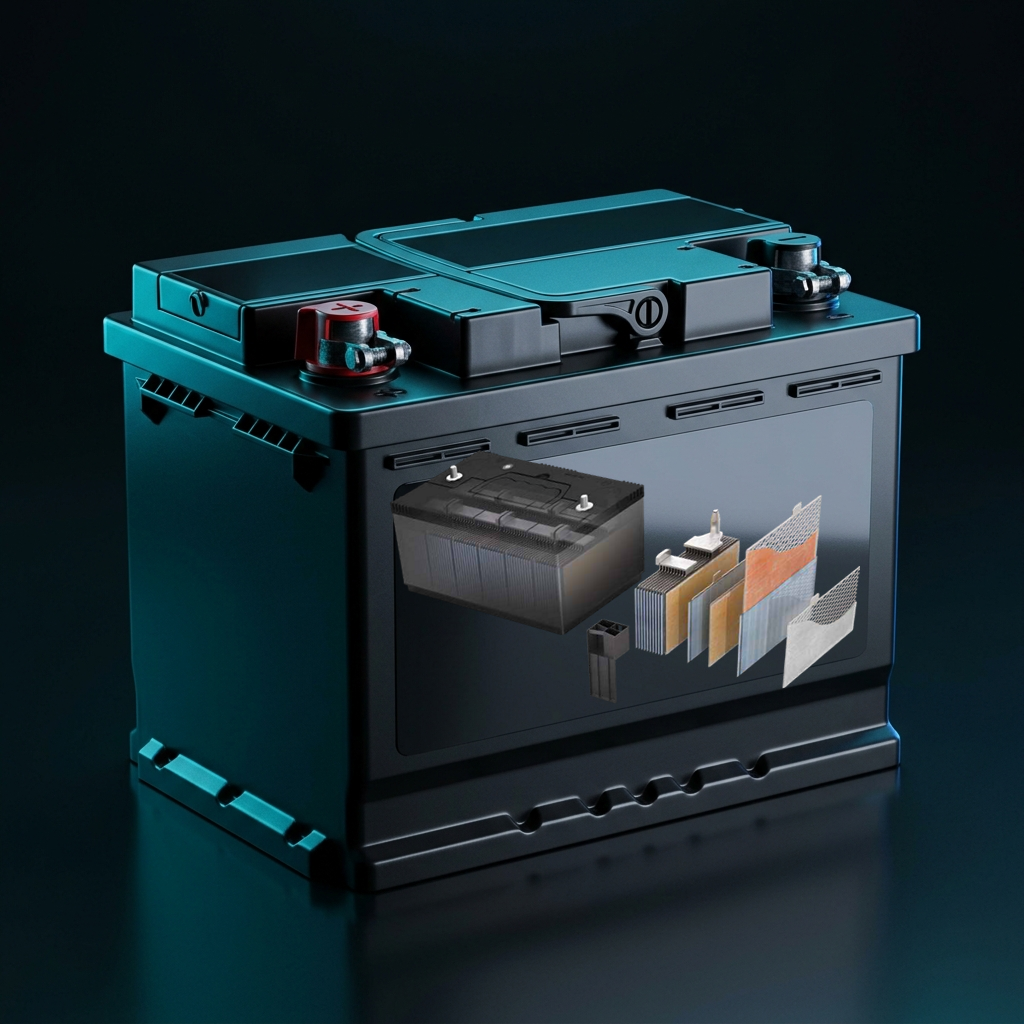
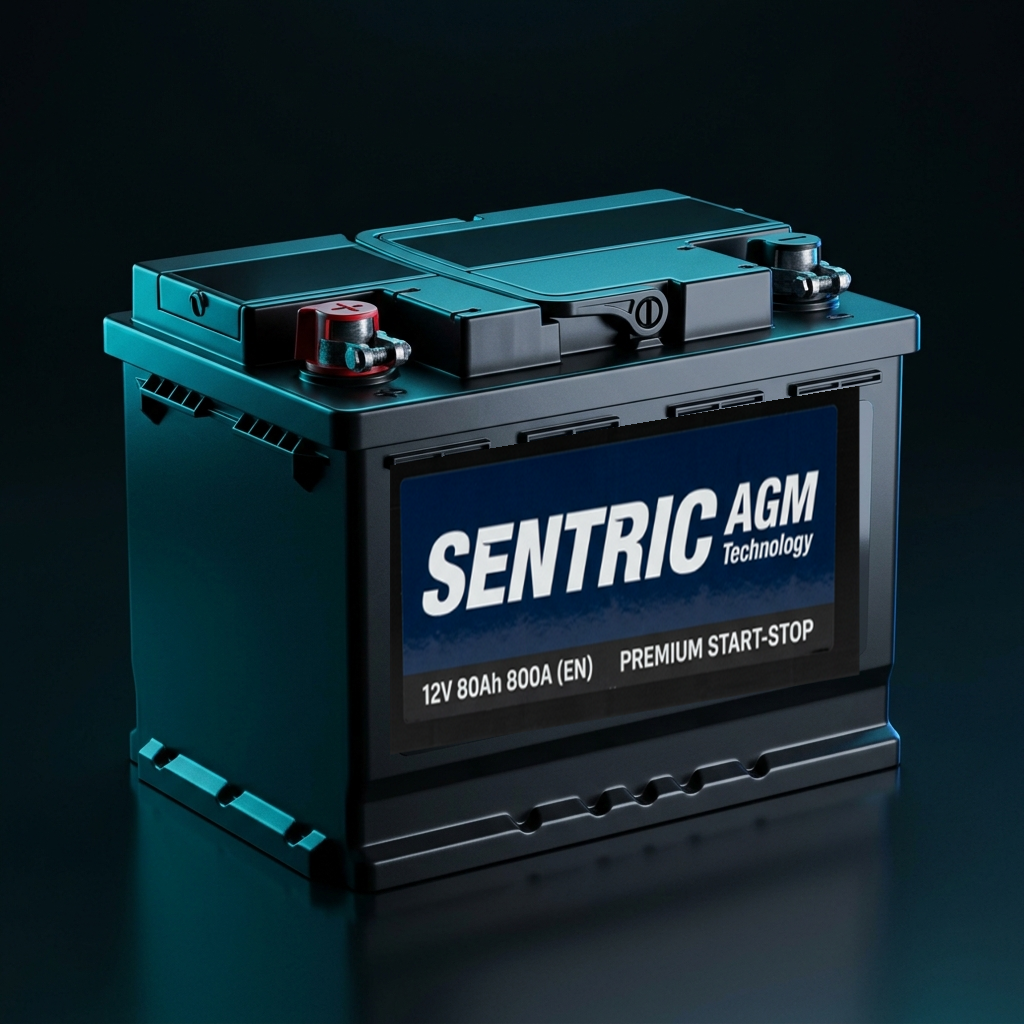
fix: apply the newly provided label for Sentric using the exact same perspective mapping as the other brands

Changed region(s): [[0.375, 0.375, 0.8438, 0.7188]]

diff --git a/index.html b/index.html
@@ -122,7 +122,7 @@
                     <!-- EFB -->
                     <a href="product-efb.html" class="sebang-card glassmorphism fade-in-up" draggable="false" style="text-decoration:none;">
                         <div class="sebang-img-wrapper">
-                            <img src="assets/battery_sentric_final.png?v=3" alt="Sentric Product" class="battery-base" style="width: 100%; height: auto;">
+                            <img src="assets/battery_sentric_final.png?v=4" alt="Sentric Product" class="battery-base" style="width: 100%; height: auto;">
                             </div>
                         </div>
                         <div class="sebang-card-content">
@@ -137,7 +137,7 @@
                     <!-- BCI -->
                     <a href="product-bci.html" class="sebang-card glassmorphism fade-in-up" draggable="false" style="transition-delay: 0.1s; text-decoration:none;">
                         <div class="sebang-img-wrapper">
-                            <img src="assets/battery_sentric_final.png?v=3" alt="Sentric Product" class="battery-base" style="width: 100%; height: auto;">
+                            <img src="assets/battery_sentric_final.png?v=4" alt="Sentric Product" class="battery-base" style="width: 100%; height: auto;">
                                     <div class="b-sub">BCI SERIES</div>
                                 </div>
                             </div>
@@ -154,7 +154,7 @@
                     <!-- DIN -->
                     <a href="product-din.html" class="sebang-card glassmorphism fade-in-up" draggable="false" style="transition-delay: 0.2s; text-decoration:none;">
                         <div class="sebang-img-wrapper">
-                            <img src="assets/battery_sentric_final.png?v=3" alt="Sentric Product" class="battery-base" style="width: 100%; height: auto;">
+                            <img src="assets/battery_sentric_final.png?v=4" alt="Sentric Product" class="battery-base" style="width: 100%; height: auto;">
                                     <div class="b-sub">DIN STANDARD</div>
                                 </div>
                             </div>
@@ -171,7 +171,7 @@
                     <!-- JIS -->
                     <a href="product-jis.html" class="sebang-card glassmorphism fade-in-up" draggable="false" style="transition-delay: 0.3s; text-decoration:none;">
                         <div class="sebang-img-wrapper">
-                            <img src="assets/battery_sentric_final.png?v=3" alt="Sentric Product" class="battery-base" style="width: 100%; height: auto;">
+                            <img src="assets/battery_sentric_final.png?v=4" alt="Sentric Product" class="battery-base" style="width: 100%; height: auto;">
                                     <div class="b-sub">JIS STANDARD</div>
                                 </div>
                             </div>
@@ -188,7 +188,7 @@
                     <!-- AGM -->
                     <a href="product-agm.html" class="sebang-card glassmorphism fade-in-up" draggable="false" style="transition-delay: 0.4s; text-decoration:none;">
                         <div class="sebang-img-wrapper">
-                            <img src="assets/battery_sentric_final.png?v=3" alt="Sentric Product" class="battery-base" style="width: 100%; height: auto;">
+                            <img src="assets/battery_sentric_final.png?v=4" alt="Sentric Product" class="battery-base" style="width: 100%; height: auto;">
                                     <div class="b-sub" style="color: #ffd700;">AGM PREMIUM</div>
                                 </div>
                             </div>
@@ -222,7 +222,7 @@
                                       <!-- ROCKET -->
                   <a href="brand-rocket.html" class="global-brand-card" style="text-decoration:none;">
                       <div class="gb-product-shot">
-                          <img src="assets/battery_rocket_final.png?v=3" alt="Rocket Battery" class="battery-base" style="width: 100%; height: auto;">
+                          <img src="assets/battery_rocket_final.png?v=4" alt="Rocket Battery" class="battery-base" style="width: 100%; height: auto;">
                       </div>
                       <div class="gb-info">
                           <h3>ROCKET</h3>
@@ -235,7 +235,7 @@
                   <!-- GLOBAL -->
                   <a href="brand-global.html" class="global-brand-card" style="text-decoration:none;">
                       <div class="gb-product-shot">
-                          <img src="assets/battery_global_final.png?v=3" alt="Global Battery" class="battery-base" style="width: 100%; height: auto;">
+                          <img src="assets/battery_global_final.png?v=4" alt="Global Battery" class="battery-base" style="width: 100%; height: auto;">
                       </div>
                       <div class="gb-info">
                           <h3>GLOBAL</h3>
@@ -248,7 +248,7 @@
                   <!-- MAXTORM -->
                   <a href="brand-maxtorm.html" class="global-brand-card" style="text-decoration:none;">
                       <div class="gb-product-shot">
-                          <img src="assets/battery_maxtorm_final.png?v=3" alt="Maxtorm Battery" class="battery-base" style="width: 100%; height: auto;">
+                          <img src="assets/battery_maxtorm_final.png?v=4" alt="Maxtorm Battery" class="battery-base" style="width: 100%; height: auto;">
                       </div>
                       <div class="gb-info">
                           <h3>MAXTORM</h3>
@@ -261,7 +261,7 @@
                   <!-- SUPREME -->
                   <a href="brand-supreme.html" class="global-brand-card" style="text-decoration:none;">
                       <div class="gb-product-shot">
-                          <img src="assets/battery_supreme_final.png?v=3" alt="Supreme Battery" class="battery-base" style="width: 100%; height: auto;">
+                          <img src="assets/battery_supreme_final.png?v=4" alt="Supreme Battery" class="battery-base" style="width: 100%; height: auto;">
                       </div>
                       <div class="gb-info">
                           <h3>SUPREME</h3>
@@ -274,7 +274,7 @@
                   <!-- COLOSSUS -->
                   <a href="brand-colossus.html" class="global-brand-card" style="text-decoration:none;">
                       <div class="gb-product-shot">
-                          <img src="assets/battery_colossus_final.png?v=3" alt="Colossus Battery" class="battery-base" style="width: 100%; height: auto;">
+                          <img src="assets/battery_colossus_final.png?v=4" alt="Colossus Battery" class="battery-base" style="width: 100%; height: auto;">
                       </div>
                       <div class="gb-info">
                           <h3>COLOSSUS</h3>
@@ -287,7 +287,7 @@
                   <!-- SENTRIC -->
                   <a href="brand-sentric.html" class="global-brand-card" style="text-decoration:none;">
                       <div class="gb-product-shot">
-                          <img src="assets/battery_sentric_final.png?v=3" alt="Sentric Battery" class="battery-base" style="width: 100%; height: auto;">
+                          <img src="assets/battery_sentric_final.png?v=4" alt="Sentric Battery" class="battery-base" style="width: 100%; height: auto;">
                       </div>
                       <div class="gb-info">
                           <h3 style="color: var(--primary);">SENTRIC</h3>
@@ -459,6 +459,7 @@
     <script src="script.js"></script>
 </body>
 </html>
+
 
 
 
